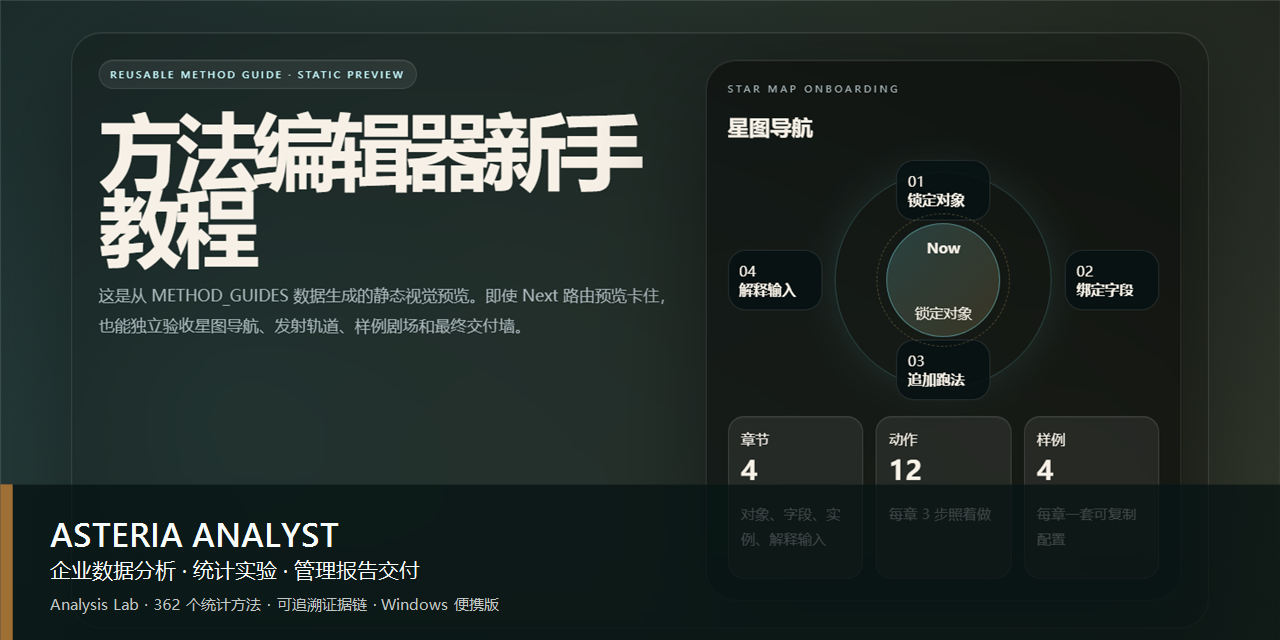
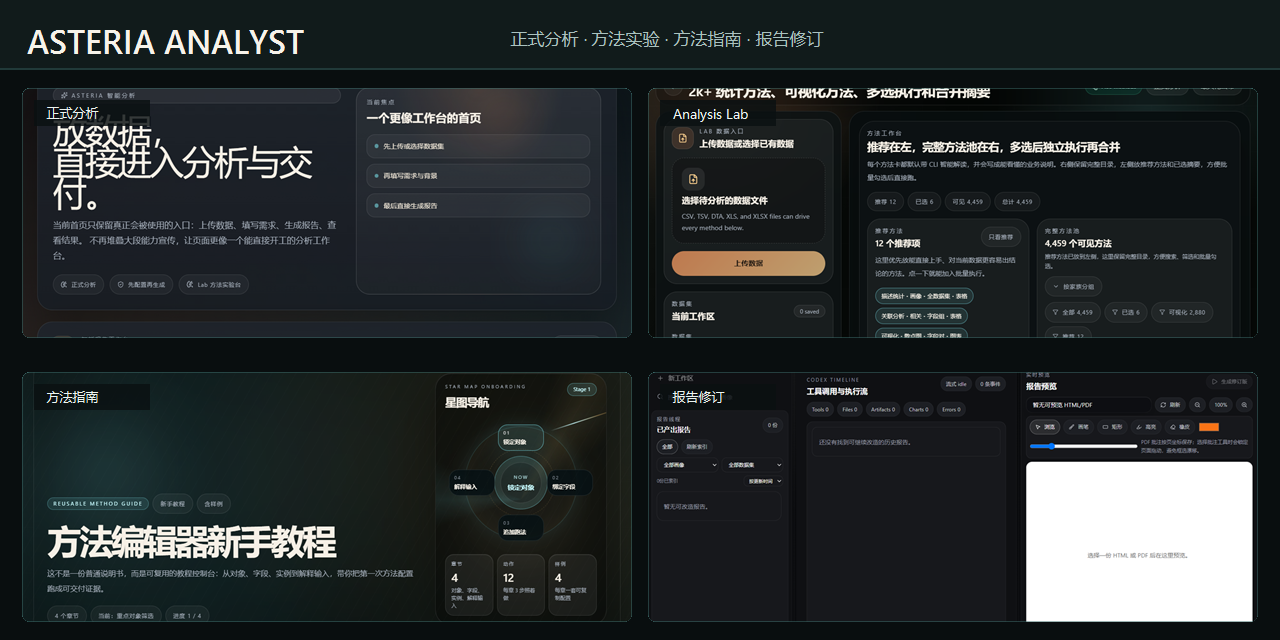
docs: add real product interface previews

diff --git a/README.md b/README.md
@@ -9,6 +9,21 @@
 
 <img src="docs/assets/asteria-method-guide-preview.png" alt="Asteria Analyst 方法指南、字段绑定与数据分析流程预览" width="100%" />
 
+## 真实产品界面
+
+以下图片来自项目运行页面和项目生成的可访问页面，覆盖数据接入、正式分析、方法选择、方法配置与报告修订。
+
+| 正式分析与数据入口 | Analysis Lab 方法工作台 |
+| --- | --- |
+| <img src="docs/assets/interface-home.png" alt="Asteria Analyst 正式分析与数据入口界面" width="100%" /> | <img src="docs/assets/interface-lab.png" alt="Asteria Analyst Analysis Lab 统计方法工作台界面" width="100%" /> |
+| 方法指南 | 报告修订工作区 |
+| <img src="docs/assets/interface-method-guide.png" alt="Asteria Analyst 方法指南与字段配置教学界面" width="100%" /> | <img src="docs/assets/interface-revision-workspace.png" alt="Asteria Analyst 报告修订工作区与文件预览界面" width="100%" /> |
+
+- **正式分析与数据入口**：导入本地数据、配置分析目标、生成可追溯的管理报告候选内容。
+- **Analysis Lab 方法工作台**：按对象、字段与数据结构选择统计、可视化和数据资产方法，查看执行摘要与可下载产物。
+- **方法指南**：围绕对象筛选、字段绑定、运行实例与解释输入组织方法配置。
+- **报告修订工作区**：集中查看报告、工具调用、文件变更、批注和版本发布状态。
+
 ## 快速开始
 
 ### 使用 Windows 便携发布包
